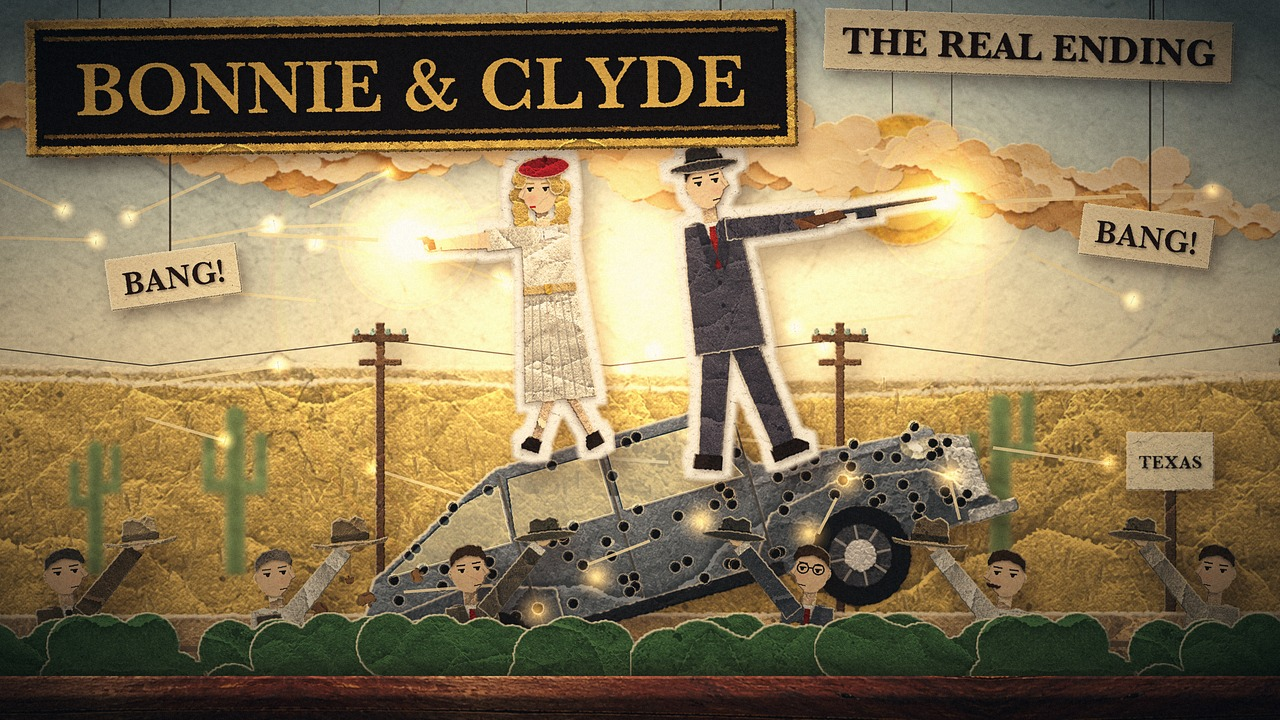
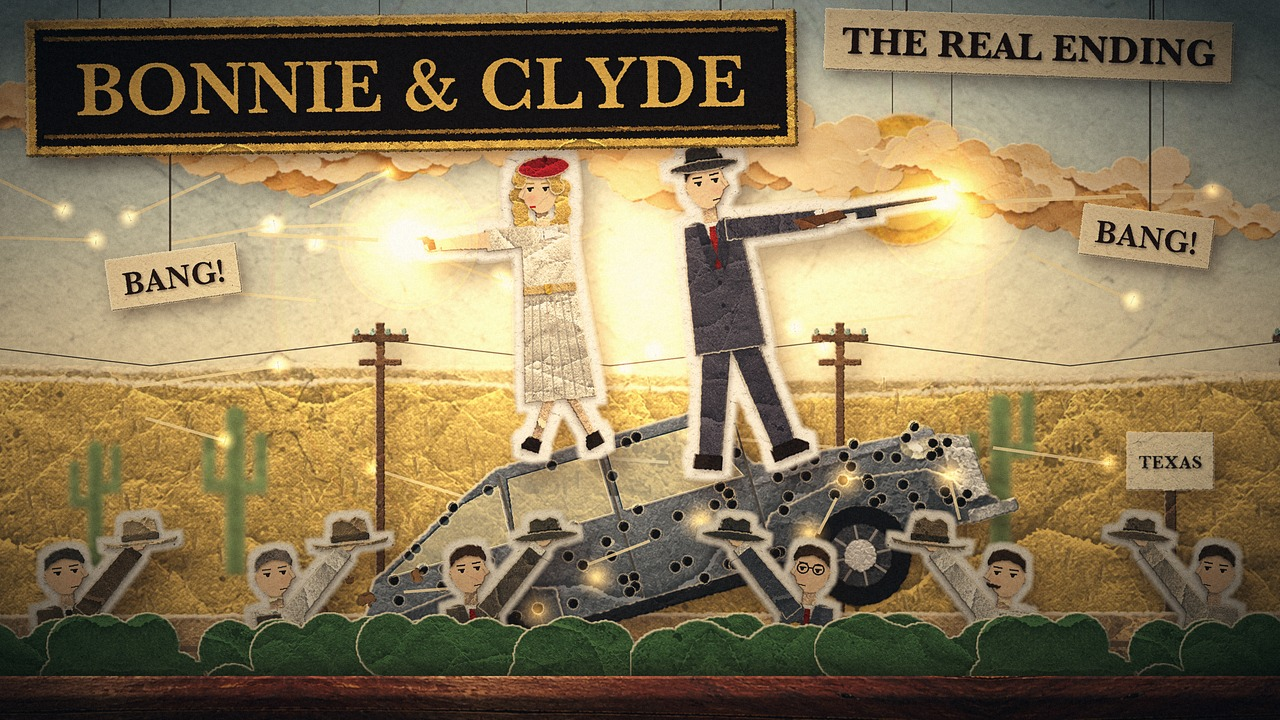
Bonnie i Clyde, miniaturka D: biały obrys łowców, żeby kapelusze w dłoniach odcinały się od pola
Reżyser 24.11: „te ich czapki weź jakoś bardziej odznacz, nie wiem, może biała obwódka”.

diff --git a/output/bonnie-i-clyde/miniatura.py b/output/bonnie-i-clyde/miniatura.py
@@ -318,7 +318,10 @@ def scena_d():
         bez, kap = kapelusz_w_dloni(key)
         spr = postac(bez, rece=(135.0, 10.0), rzecz=kap)
         ax = kotwica_tulowia(bez, spr)
-        M0.poloz(st, spr, x, 822, P.lalki + 0.02 + 0.001 * n, h=300, anchor=(ax, 1.0), sx=fl, rot=-6 * fl, tint=(0.84, 0.84, 0.82))
+        # biały obrys (cieńszy niż u Bonnie i Clyde'a): kapelusze w dłoniach odcinają się od pola (reżyser 24.11: „czapki
+        # bardziej odznacz, może biała obwódka”)
+        M0.poloz_obrys(st, spr, x, 822, P.lalki + 0.02 + 0.001 * n, 300, (ax, 1.0), kolor=BIALY, gruby=6, k=max(1.0, papier.Q), sx=fl,
+                       rot=-6 * fl, tint=(0.84, 0.84, 0.82))
     for n, x in enumerate((20, 175, 330, 485, 640, 795, 950, 1105, 1260)):
         M0.poloz(st, J.krzak(n % 6), x, 728, P.lalki + 0.03 + 0.001 * n, h=118, anchor=(0.5, 1.0))
     M0.nitki(st, tabliczka_gruba("THE REAL ENDING", 64, K_TAB), 1030, 14, P.rekwizyty + 0.03, h=64, xs=(0.2, 0.8), rot=2)
